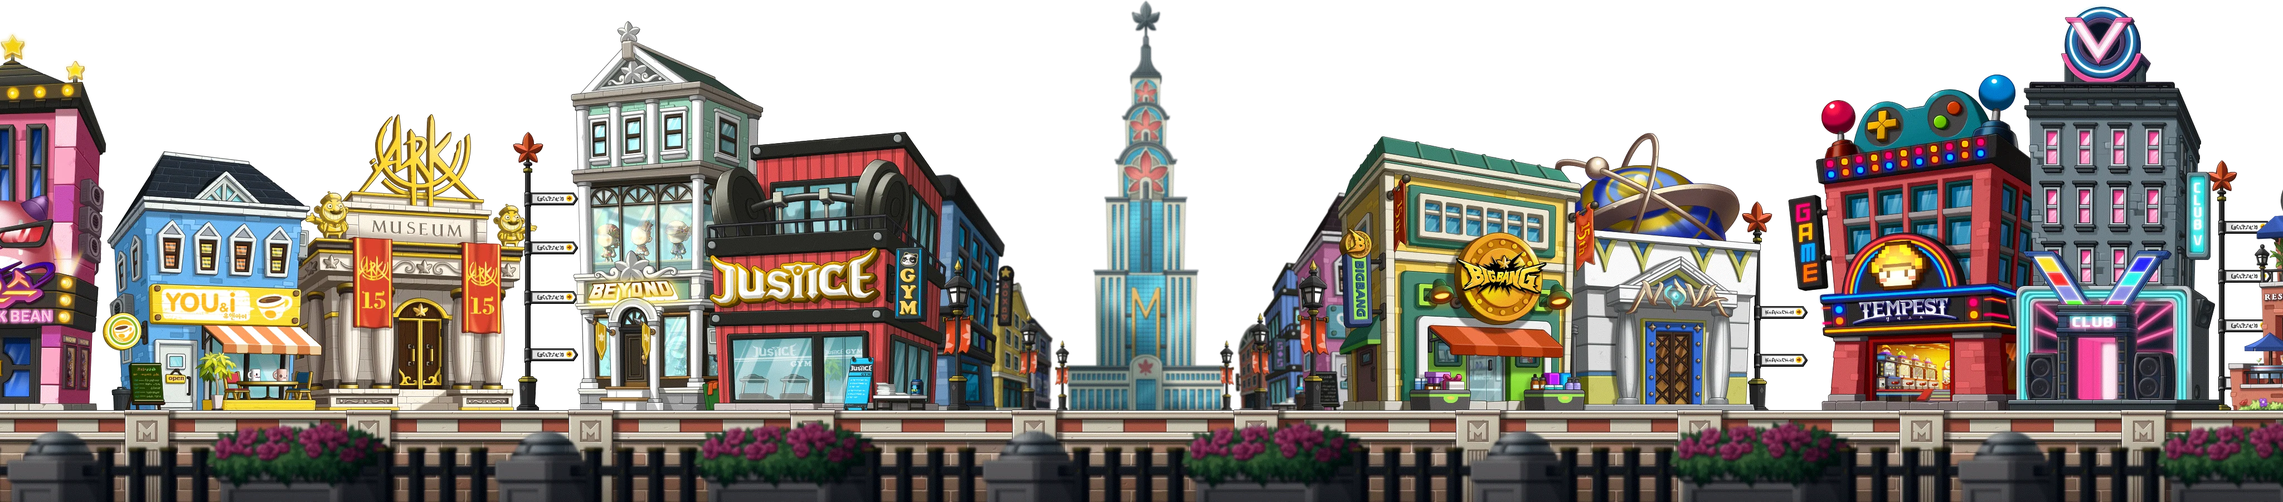
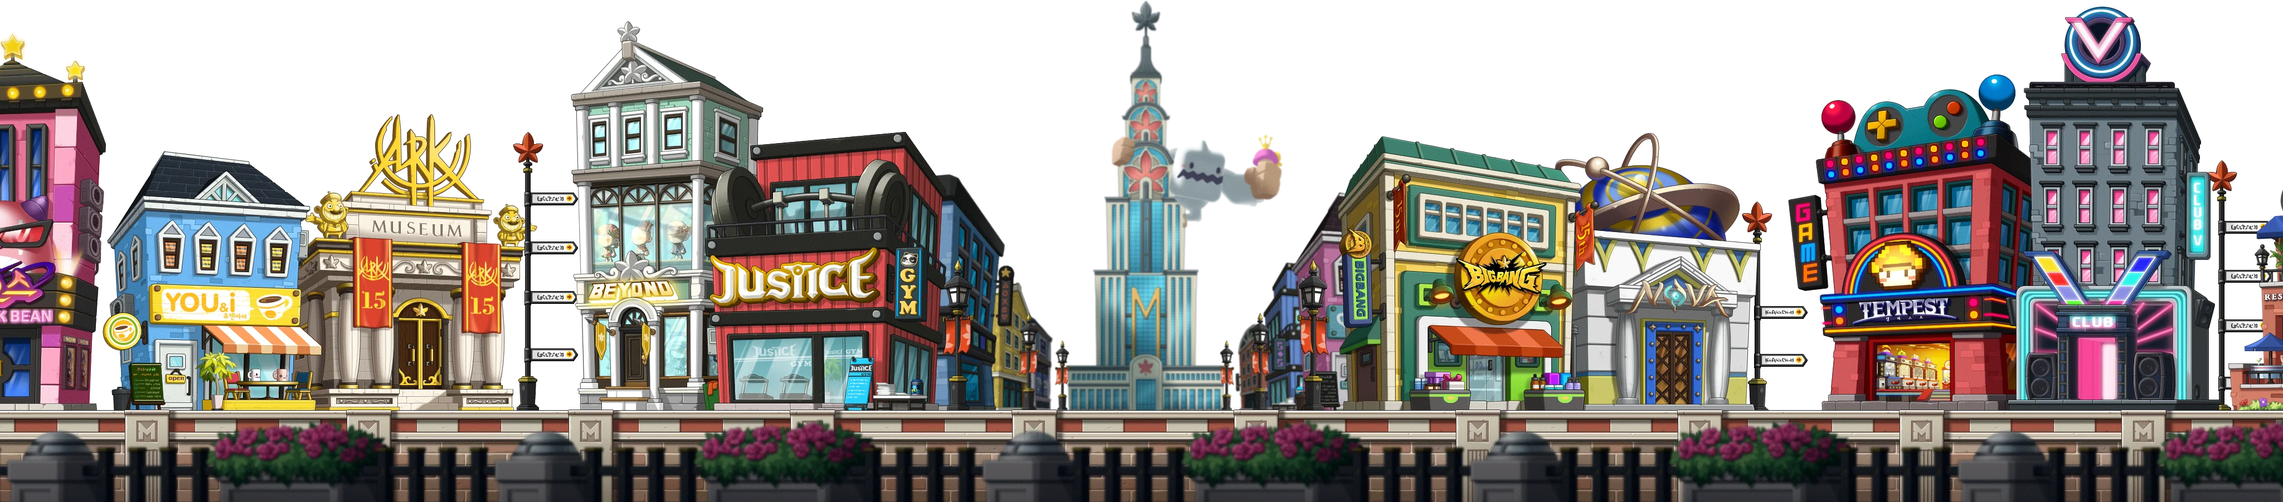
탭마다 주소, 배율 따라 커지는 무대, 밤 창문 불빛
- 탭 ↔ 주소(/, /search, /info, /preset, /plaza): 상태로 바로 바꾸고 주소만 따라 적는다(뒤로 가기 · 새로고침 · 링크)
- 앱 본문을 (shop)/layout 으로 옮겨 주소가 바뀌어도 다시 뜨지 않게
- 무대: 미리보기 배율을 올리면 방도 함께 커진다
- 거리: 밤에 창에 노란 불이 켜지고 둘레로 새어 나온다, 예티 풍선은 탑에 고정
- 장면의 밝아지며 다가가는 연출은 처음 뜰 때만

Changed region(s): [[0.4688, 0.2794, 0.5625, 0.4346]]

diff --git a/src/components/shop/scene/sceneGl.ts b/src/components/shop/scene/sceneGl.ts
@@ -1,19 +1,22 @@
 // 배경 장면을 그리는 WebGL 실행기. 그림은 게임 맵에서 뽑은 것(메이플 15번가)이고, 여기서는 층을 겹쳐 놓고
 // 시각에 따른 색과 작은 움직임만 입힌다. 화면 조작(INP)에 끼어들지 않는 것이 첫째 조건이다.
-//  · 앱 배경(sky) = 15번가 거리: 하늘(셰이더) → 구름 · 열기구 → 먼 빌딩 숲 → 버스와 차 → 거리의 건물 → 헬리콥터.
+//  · 앱 배경(sky) = 15번가 거리: 하늘(셰이더) → 구름 · 열기구 → 먼 빌딩 숲 → 버스와 차 → 거리의 건물(탑을 끌어안은 예티 풍선 포함) → 헬리콥터.
 //    그림 1칸 = 화면 1px 로 놓고(배율을 바꾸지 않는다) 아래 가운데를 화면 아래 가운데에 맞춘다.
-//  · 무대(room) = 15번가 패션 매장 안: 창밖 거리 → 매장. 가운데 깔개가 캐릭터 발밑에 온다. 그림은 늘 1칸 = 화면 1px —
-//    캐릭터 배율을 올려도 방은 키우지 않는다(키우면 선이 뭉개지고 방이 조금밖에 안 보인다).
+//  · 무대(room) = 15번가 패션 매장 안: 창밖 거리 → 매장. 가운데 깔개가 캐릭터 발밑에 오고, 그림 1칸 = 캐릭터 도트 1칸이다 —
+//    미리보기 배율을 올리면 방도 함께 커진다(정수 배율이라 칸을 그대로 키운다).
 //  · 움직임: 구름 · 열기구 · 차가 따로 흘러가고(정점 셰이더에서 계산), 화면 전체가 아주 천천히 좌우로 흔들린다(층마다 폭이 다르다).
-//  · 시각(skyTime): 하늘 · 해 · 달 · 별 · 핑크빈 별자리, 그림에 곱하는 빛. 밤에는 네온처럼 밝고 진한 색만 제 빛을 지킨다.
+//  · 시각(skyTime): 하늘 · 해 · 달 · 별 · 핑크빈 별자리, 그림에 곱하는 빛. 밤에는 거리가 가라앉고 창에 노란 불이 켜져 둘레로 새어 나온다
+//    (어느 창이 켜지는지는 그림에서 미리 뽑아 둔 지도 street-glow 가 정한다). 네온처럼 밝고 진한 색도 제 빛을 지킨다.
 //  · 그림은 화면이 한가할 때 받아 한 프레임에 한 장씩 올린다(디코딩은 createImageBitmap 으로 메인 스레드 밖에서).
 //  · 초당 30번 그린다. '동작 줄이기'면 바뀔 때와 20초마다만 그린다. 탭이 가려지면 rAF 가 멈춘다.
-//  · 캔버스와 컨텍스트는 종류마다 하나를 끝까지 재사용한다.
+//  · 캔버스와 컨텍스트는 종류마다 하나를 끝까지 재사용한다. 밝아지며 다가가는 연출은 처음 뜰 때 한 번뿐 —
+//    탭을 오가며 다시 붙을 때는 그 자리에서 바로 보인다(전환이 밀리지 않게).
 
 import roomFar from '@/assets/scene/room-far.webp'
 import roomMain from '@/assets/scene/room-main.webp'
 import streetAir from '@/assets/scene/street-air.webp'
 import streetFar from '@/assets/scene/street-far.webp'
+import streetGlow from '@/assets/scene/street-glow.webp'
 import streetMain from '@/assets/scene/street-main.webp'
 import { getStageFloor, onStageFloor } from '@/lib/stageFloor'
 import { ROOM, STREET } from './sceneData'
@@ -28,7 +31,7 @@ const SWAY = 12          // 화면이 좌우로 흔들리는 폭(그림 픽셀)
 const MASK = 0.2         // 앱 배경을 화면 내용과 가르는 어두운 막
 
 // 정점: 자리(2) · 텍스처 좌표(2) · [종류, 위상, 처음 x](3)
-// 종류 0 구름 · 1 열기구 · 2 헬리콥터와 풍선 행렬 · 3 버스와 차 · 4 먼 빌딩 · 5 거리 · 6 무대의 창밖 · 7 무대
+// 종류 0 구름 · 1 열기구 · 2 헬리콥터 · 3 버스와 차 · 4 먼 빌딩 · 5 거리 · 6 무대의 창밖 · 7 무대
 const QUAD_VS = `
 attribute vec2 aPos; attribute vec2 aUv; attribute vec3 aAni;
 uniform vec4 uView; uniform vec2 uRes; uniform float uTime; uniform float uSway;
@@ -51,7 +54,7 @@ void main(){
 }`
 const QUAD_FS = `
 precision mediump float;
-uniform sampler2D uTex; uniform vec3 uAmb; uniform vec3 uCloud; uniform vec3 uHaze; uniform float uLamp; uniform float uMask; uniform float uTw;
+uniform sampler2D uTex; uniform sampler2D uGlow; uniform vec3 uAmb; uniform vec3 uCloud; uniform vec3 uHaze; uniform float uLamp; uniform float uMask; uniform float uTw;
 uniform vec3 uFoot;   // 발 자리(그림 픽셀)와 그림자 반폭
 varying vec2 vUv; varying float vKind; varying vec2 vPos;
 void main(){
@@ -65,7 +68,18 @@ void main(){
     lit = c * uAmb;
     // 밤: 밝고 진한 색(네온 · 간판 · 불 켜진 창)은 제 빛을 지킨다
     lit = mix(lit, c * 1.05 + .03, smoothstep(.6, .9, mx) * smoothstep(.2, .5, mx - mn) * uLamp);
-    if (vKind > 3.5 && vKind < 4.5) lit = mix(lit, uHaze, .3);
+    if (vKind > 4.5 && vKind < 5.5) {
+      // 거리: 불 켜진 창(r)은 노랗게, 창에서 새어 나온 빛(g)은 둘레를 물들인다
+      vec2 gw = texture2D(uGlow, vUv).rg * uLamp;
+      lit = mix(lit, vec3(1., .86, .5) * (.55 + .5 * dot(c, vec3(.3, .59, .11))), gw.x);
+      lit += vec3(1., .74, .36) * gw.y * .42;
+    } else if (vKind > 3.5 && vKind < 4.5) {
+      // 먼 빌딩: 창 몇 개에만 불을 켠다
+      vec2 cell = vPos / vec2(7., 9.), f = fract(cell);
+      float h = fract(sin(dot(floor(cell), vec2(12.9898, 78.233))) * 43758.5453);
+      lit = mix(lit, vec3(1., .84, .5), step(.82, h) * step(.2, f.x) * step(f.x, .75) * step(.2, f.y) * step(f.y, .7) * uLamp * .85);
+      lit = mix(lit, uHaze, .3);
+    }
   } else {
     // 매장 안은 등불을 받아 바깥보다 덜 물든다. 아주 밝은 점(천장 · 바닥의 조명)은 느리게 반짝인다
     lit = c * mix(vec3(1.), uAmb, .3) + vec3(.03, .012, 0.) * uLamp;
@@ -132,8 +146,10 @@ interface Scene {
   host: HTMLElement | null
   ratio: number                  // 캔버스 픽셀 / CSS 픽셀
   foot: [number, number]         // 무대: 발 자리(캔버스 픽셀)
+  px: number                     // 무대: 그림 1칸의 캔버스 픽셀 수(= 캐릭터 도트 1칸)
+  nearest: boolean               // 무대: 지금 텍스처 필터
   shadow: number                 // 무대: 발밑 그림자 반폭(그림 픽셀)
-  arrive: number                 // 0 → 1: 뜨면서 살짝 다가간다
+  arrive: number                 // 0 → 1: 처음 뜨면서 살짝 다가간다
   shown: boolean
   dirty: boolean
   at: number
@@ -141,7 +157,7 @@ interface Scene {
   cleanup: (() => void) | null
 }
 
-const SOURCES: Record<SceneKind, string[]> = { sky: [streetAir.src, streetFar.src, streetMain.src], room: [roomFar.src, roomMain.src] }
+const SOURCES: Record<SceneKind, string[]> = { sky: [streetAir.src, streetFar.src, streetMain.src, streetGlow.src], room: [roomFar.src, roomMain.src] }
 const scenes: Partial<Record<SceneKind, Scene>> = {}
 let raf = 0
 let last = 0
@@ -187,7 +203,7 @@ function init(sc: Scene) {
   const gl = sc.gl
   if (!gl) return
   if (sc.kind === 'sky' && gl.getParameter(gl.MAX_TEXTURE_SIZE) < STREET.w) { sc.failed = true; return }
-  const qp = program(gl, QUAD_VS, QUAD_FS, ['uView', 'uRes', 'uTime', 'uTw', 'uSway', 'uTex', 'uAmb', 'uCloud', 'uHaze', 'uLamp', 'uMask', 'uFoot'])
+  const qp = program(gl, QUAD_VS, QUAD_FS, ['uView', 'uRes', 'uTime', 'uTw', 'uSway', 'uTex', 'uGlow', 'uAmb', 'uCloud', 'uHaze', 'uLamp', 'uMask', 'uFoot'])
   const sp = sc.kind === 'sky' ? program(gl, SKY_VS, SKY_FS, ['uRes', 'uPx', 'uSky', 'uSun', 'uMoon', 'uSunCol', 'uNight', 'uTime', 'uMask']) : null
   if (!qp || (sc.kind === 'sky' && !sp)) { sc.failed = true; return }
   const m = mesh(sc.kind)
@@ -203,6 +219,7 @@ function init(sc: Scene) {
   gl.blendFunc(gl.ONE, gl.ONE_MINUS_SRC_ALPHA)
   sc.tex = sc.bmps.map(() => null)
   sc.pending = sc.bmps.map((b, i) => (b ? i : -1)).filter((i) => i >= 0)
+  sc.nearest = false
   sc.dirty = true
 }
 
@@ -231,7 +248,7 @@ function load(sc: Scene) {
 function create(kind: SceneKind): Scene {
   const canvas = document.createElement('canvas')
   canvas.style.cssText = 'position:absolute;left:0;top:0;width:100%;height:100%;display:block;opacity:0;pointer-events:none'
-  const sc: Scene = { kind, canvas, gl: null, quad: null, sky: null, ranges: [], bmps: SOURCES[kind].map(() => null), tex: [], pending: [], host: null, ratio: 1, foot: [0, 0], shadow: 13, arrive: 0, shown: false, dirty: true, at: 0, failed: false, cleanup: null }
+  const sc: Scene = { kind, canvas, gl: null, quad: null, sky: null, ranges: [], bmps: SOURCES[kind].map(() => null), tex: [], pending: [], host: null, ratio: 1, foot: [0, 0], px: 1, nearest: false, shadow: 13, arrive: 0, shown: false, dirty: true, at: 0, failed: false, cleanup: null }
   // 소프트웨어 렌더러(GPU 없음)면 쓰지 않는다. 그때는 바탕색만 남는다. (?skygl=soft 는 GPU 없는 확인 환경에서 강제로 켜는 용도)
   const soft = /[?&]skygl=soft/.test(window.location.search)
   const gl = canvas.getContext('webgl', { alpha: false, antialias: false, depth: false, stencil: false, powerPreference: 'low-power', failIfMajorPerformanceCaveat: !soft })
@@ -244,7 +261,7 @@ function create(kind: SceneKind): Scene {
   return sc
 }
 
-// 캔버스 크기와(무대라면) 캐릭터 발 자리.
+// 캔버스 크기와(무대라면) 캐릭터 발 자리 · 배율.
 function layout(sc: Scene) {
   const host = sc.host
   if (!host) return
@@ -260,9 +277,10 @@ function layout(sc: Scene) {
     if (f && f.wrap.isConnected && host.parentElement?.contains(f.wrap)) {
       const wr = f.wrap.getBoundingClientRect(), hr = host.getBoundingClientRect()
       sc.foot = [Math.round((wr.left - hr.left + f.cx) * r), Math.round((wr.top - hr.top + f.footY) * r)]
-      sc.shadow = (f.shadow * f.scale) / dpr
+      sc.px = f.scale; sc.shadow = f.shadow
     } else {
       // 캐릭터가 아직 안 그려졌을 때: 그려질 자리와 거의 같은 값으로 미리 잡는다.
+      sc.px = Math.max(1, Math.round(dpr))
       sc.foot = [Math.round((hw / 2) * r), Math.round((hh / 2 + 38.4) * r)]
     }
   }
@@ -282,6 +300,15 @@ function draw(sc: Scene, now: number, st: SkyState, still: boolean) {
   const s = still ? 40 : now / 1000, W = c.width, H = c.height, room = sc.kind === 'room'
   sc.arrive = still ? 1 : Math.min(1, sc.arrive + 0.035)
   const ease = 1 - Math.pow(1 - sc.arrive, 3), zoom = 1 + 0.03 * (1 - ease)
+  if (room) {
+    // 다가가는 동안만 부드럽게, 멈추면 칸을 그대로(캐릭터 도트와 같은 결)
+    const nearest = sc.arrive >= 1 && Number.isInteger(sc.px)
+    if (nearest !== sc.nearest) {
+      sc.nearest = nearest
+      const f = nearest ? gl.NEAREST : gl.LINEAR
+      for (const t of sc.tex) { gl.bindTexture(gl.TEXTURE_2D, t); gl.texParameteri(gl.TEXTURE_2D, gl.TEXTURE_MIN_FILTER, f); gl.texParameteri(gl.TEXTURE_2D, gl.TEXTURE_MAG_FILTER, f) }
+    }
+  }
   gl.viewport(0, 0, W, H)
   gl.enableVertexAttribArray(0)
   const mask = room ? 0 : MASK
@@ -303,10 +330,12 @@ function draw(sc: Scene, now: number, st: SkyState, still: boolean) {
   gl.vertexAttribPointer(0, 2, gl.FLOAT, false, 28, 0); gl.vertexAttribPointer(1, 2, gl.FLOAT, false, 28, 8); gl.vertexAttribPointer(2, 3, gl.FLOAT, false, 28, 16)
   // 그림 픽셀 → 캔버스 픽셀: c = p * k + o
   let k: number, ox: number, oy: number
-  if (room) { k = sc.ratio * zoom; ox = sc.foot[0] - ROOM.foot[0] * k; oy = sc.foot[1] - ROOM.foot[1] * k }
+  if (room) { k = sc.px * zoom; ox = sc.foot[0] - ROOM.foot[0] * k; oy = sc.foot[1] - ROOM.foot[1] * k }
   else { k = sc.ratio * Math.max(1, W / sc.ratio / (STREET.w - 4 * SWAY)) * zoom; ox = W / 2 - (STREET.w / 2) * k; oy = H - STREET.h * k }
   gl.uniform4f(q.u.uView, k, k, ox, oy); gl.uniform2f(q.u.uRes, W, H); gl.uniform1f(q.u.uTime, s); gl.uniform1f(q.u.uTw, s % 600)
   gl.uniform1f(q.u.uSway, still ? 0 : Math.sin(s * 0.09) * SWAY)
+  // 불빛 지도는 1번 자리에(거리만 읽는다. 무대는 아무 그림이나 물려 둔다)
+  gl.uniform1i(q.u.uGlow, 1); gl.activeTexture(gl.TEXTURE1); gl.bindTexture(gl.TEXTURE_2D, sc.tex[room ? 0 : 3])
   gl.uniform1i(q.u.uTex, 0); gl.activeTexture(gl.TEXTURE0)
   // 밤의 거리는 하늘빛보다 더 가라앉힌다 — 네온이 살아난다
   const dim = 1 - 0.4 * st.night
@@ -346,9 +375,9 @@ export function mountScene(kind: SceneKind, host: HTMLElement): () => void {
   if (sc.failed) return () => {}
   sc.cleanup?.()
   sc.host = host
-  // 붙을 때마다: 어두운 바탕에서 밝아지며 살짝 다가간다
-  sc.canvas.style.transition = 'none'; sc.canvas.style.opacity = '0'
-  sc.shown = false; sc.arrive = 0
+  // 처음 뜰 때만 어두운 바탕에서 밝아지며 살짝 다가간다. 이미 떠 있던 장면은 다시 붙자마자 그린다(아래)
+  const again = sc.shown
+  if (!again) { sc.canvas.style.transition = 'none'; sc.canvas.style.opacity = '0'; sc.arrive = 0 }
   host.appendChild(sc.canvas)
   const relayout = () => layout(sc)
   const ro = new ResizeObserver(relayout)
@@ -362,6 +391,7 @@ export function mountScene(kind: SceneKind, host: HTMLElement): () => void {
   }
   layout(sc)
   reduce ??= window.matchMedia('(prefers-reduced-motion: reduce)')
+  if (again) draw(sc, performance.now(), skyState(skyHour()), reduce.matches) // 빈 프레임 없이
   if (!raf) raf = requestAnimationFrame(tick)
   const mine = sc.cleanup
   return () => { if (sc.cleanup === mine) mine() }

diff --git a/src/components/shop/ShopContext.tsx b/src/components/shop/ShopContext.tsx
@@ -9,6 +9,8 @@
  */
 
 import { createContext, useCallback, useContext, useDeferredValue, useEffect, useMemo, useRef, useState } from 'react'
+import { useSelectedLayoutSegment } from 'next/navigation'
+import { TAB_PATH, TAB_TITLE, tabOfPath } from '@/lib/tabRoute'
 import { nameMatcher } from '@/lib/nameSearch'
 import { CATS, MIX_PALETTE, type Preset, type Pv } from '@/lib/catalog'
 import { clampDye } from '@/lib/color'
@@ -25,7 +27,7 @@ import { safeBubbles } from '@/lib/safeText'
 import { CAT_TO_SLOT, DEFAULT_EQUIP, DEFAULT_TONE, DOT_MOVER_IDS, EQUIP_SLOTS, SLOT_TO_CAT, THUMB_VIEW, buildView, foldList, isDyeableSkin, slotFile } from '@/lib/shopData'
 import { warmItem } from '@/lib/core/warm'
 import { confirmTwice } from '@/lib/confirmTwice'
-import { RESTORE_ATTR, RESTORE_TABS, SEARCH_KEEP, type PresetOver, readUiHistory, readUiPref, readUiSession, useIsoLayoutEffect, writeUiHistory, writeUiPref, writeUiSession } from '@/lib/uiState'
+import { RESTORE_ATTR, SEARCH_KEEP, type PresetOver, readUiHistory, readUiPref, readUiSession, useIsoLayoutEffect, writeUiHistory, writeUiPref, writeUiSession } from '@/lib/uiState'
 
 type Dispatch<T> = React.Dispatch<React.SetStateAction<T>>
 export type ListMode = 'sprite' | 'model' | 'mymodel' // 보기 방식: 아이템 / 기본 캐릭터 / 내 캐릭터
@@ -182,7 +184,7 @@ export interface ShopCtx {
   search: string; setSearch: Dispatch<string>
   genderFilter: GenderFilter; setGenderFilter: Dispatch<GenderFilter> // 코디·AI 코디 검색 공용(v2)
   // primary/screen
-  primary: string; setPrimary: Dispatch<string>
+  primary: string; setPrimary: (tab: string) => void
   goHome: () => void // 로고 — 첫 진입 화면(코디 탭 · 전체 · 1페이지)으로
   // AI 코디 검색 — 결과는 하단 부위 바(activeCat)·성별로 필터(결과 집합은 perPage 와 무관)
   aiQ: string; setAiQ: Dispatch<string>
@@ -297,7 +299,25 @@ export function ShopProvider({ children }: { children: React.ReactNode }) {
   const [dataLoading, setDataLoading] = useState(true)
 
   // ── UI ──
-  const [primary, setPrimary] = useState('codi')
+  // 탭은 주소와 짝이다(lib/tabRoute). 처음 값은 들어온 주소에서 읽고, 바꿀 때는 상태를 먼저 바꾼 뒤 주소를 따라 적는다 —
+  // 주소 이동(서버 왕복)으로 화면을 바꾸지 않으므로 탭은 그 자리에서 바로 바뀐다. 뒤로 · 앞으로는 주소를 보고 상태를 맞춘다.
+  const segment = useSelectedLayoutSegment()
+  const [primary, setPrimaryState] = useState(() => tabOfPath('/' + (segment ?? '')))
+  const setPrimary = useCallback((tab: string) => {
+    setPrimaryState(tab)
+    const path = TAB_PATH[tab]
+    try { if (path && window.location.pathname !== path) window.history.pushState(null, '', path + window.location.search) } catch {} // 주소를 못 바꿔도 탭은 바뀐다
+  }, [])
+  useEffect(() => {
+    const onPop = () => setPrimaryState(tabOfPath(window.location.pathname))
+    window.addEventListener('popstate', onPop)
+    return () => window.removeEventListener('popstate', onPop)
+  }, [])
+  const titled = useRef(false)
+  useEffect(() => {
+    if (!titled.current) { titled.current = true; return } // 처음 제목은 서버가 낸 것(공유 링크는 프리셋 이름)을 둔다
+    document.title = TAB_TITLE[primary] ? `${TAB_TITLE[primary]} · 핑크빈 커마샵` : '핑크빈 커마샵'
+  }, [primary])
   const [searchQuery, setSearchQuery] = useState<string | null>(null) // AI 코디 검색어(null=미검색)
   const [aiQ, setAiQ] = useState('')
   const [activeCat, setActiveCat] = useState('all') // 기본 = 전체(모든 부위 한 리스트)
@@ -541,14 +561,13 @@ export function ShopProvider({ children }: { children: React.ReactNode }) {
   const [searchLoading, setSearchLoading] = useState(false)
 
   // ── 보던 자리 기억(새로고침까지만) ──
-  // 실수로 새로고침해도 탭·부위·검색어·페이지를 잃지 않는다. 탭을 닫고 다시 들어오면
+  // 실수로 새로고침해도 부위·검색어·페이지를 잃지 않는다(탭은 주소가 기억한다). 탭을 닫고 다시 들어오면
   // sessionStorage 가 비어 있으므로 저절로 첫 화면(코디 탭 · 전체 · 1페이지)에서 시작한다.
   //  · 되살리기는 **페인트 전**(layout effect)에 해서 기본 화면이 한 번 스치지 않게 한다.
   //  · 저장은 되살리기가 끝난 뒤에만 한다 — 먼저 돌면 기본값으로 덮어써 버린다.
   const [uiReady, setUiReady] = useState(false)
   useIsoLayoutEffect(() => {
     const u = readUiSession()
-    if (u.primary && RESTORE_TABS.has(u.primary)) setPrimary(u.primary)
     if (typeof u.activeCat === 'string') setActiveCat(u.activeCat)
     if (typeof u.search === 'string') setSearch(u.search)
     if (u.pageByCat && typeof u.pageByCat === 'object') setPageByCat(u.pageByCat)
@@ -569,10 +588,10 @@ export function ShopProvider({ children }: { children: React.ReactNode }) {
   useEffect(() => {
     if (!uiReady) return
     writeUiSession({
-      primary, activeCat, search, pageByCat, plazaFilter, plazaQ,
+      activeCat, search, pageByCat, plazaFilter, plazaQ,
       aiQ, searchQuery, searchResults: searchResults.slice(0, SEARCH_KEEP),
     })
-  }, [uiReady, primary, activeCat, search, pageByCat, plazaFilter, plazaQ, aiQ, searchQuery, searchResults])
+  }, [uiReady, activeCat, search, pageByCat, plazaFilter, plazaQ, aiQ, searchQuery, searchResults])
   useEffect(() => { if (uiReady) writeUiPref({ plazaSort }) }, [uiReady, plazaSort])
   const [rateResult, setRateResult] = useState<{ bubbles: string[]; nonce: number } | null>(null) // 코디 평가 말풍선
   // 말풍선은 **평가를 눌러 받은 그 한 번만** 뜬다(2026-09-22 사용자 제보 — 광장처럼 미리보기가 없는 탭에

diff --git a/src/components/shop/scene/sceneData.ts b/src/components/shop/scene/sceneData.ts
@@ -1,4 +1,4 @@
 // parser/scripts/scene-build.cjs 가 만든다. 손으로 고치지 않는다.
-// 좌표는 그림 픽셀(왼쪽 위 원점). sprites: [종류, 아틀라스 x, y, w, h, 장면 x, y] — 종류 0 구름 · 1 열기구 · 2 헬리콥터와 풍선 행렬 · 3 버스와 차
-export const STREET = {"w":4096,"h":1000,"far":{"y":118,"h":722},"main":{"y":98,"h":902},"atlas":[2200,743],"sprites":[[0,0,0,2155,459,-431,154],[0,0,0,2155,459,1724,154],[0,0,0,2155,459,3879,154],[0,788,461,387,166,1119,86],[0,788,461,387,166,2919,86],[0,0,461,472,190,169,11],[0,0,461,472,190,1669,11],[0,0,461,472,190,3169,11],[1,2069,461,71,92,1493,232],[1,2069,461,71,92,3922,91],[1,552,653,59,80,3033,158],[1,552,653,59,80,2555,254],[1,552,653,59,80,810,206],[1,1979,461,88,116,2452,156],[1,1979,461,88,116,240,122],[1,1979,461,88,116,4022,134],[1,1887,461,90,119,3100,189],[1,1887,461,90,119,1725,174],[1,1887,461,90,119,865,127],[2,348,653,100,89,1864,335],[2,474,461,312,174,1992,337],[2,450,653,100,89,2285,286],[3,1177,461,353,152,746,682],[3,1532,461,353,152,2961,686],[3,0,653,172,90,836,748],[3,0,653,172,90,3836,748],[3,0,653,172,90,2630,747],[3,174,653,172,90,1997,750],[3,174,653,172,90,54,748],[3,174,653,172,90,2554,748]]}
+// 좌표는 그림 픽셀(왼쪽 위 원점). sprites: [종류, 아틀라스 x, y, w, h, 장면 x, y] — 종류 0 구름 · 1 열기구 · 2 헬리콥터 · 3 버스와 차
+export const STREET = {"w":4096,"h":1000,"far":{"y":118,"h":722},"main":{"y":98,"h":902},"atlas":[2200,742],"sprites":[[0,0,0,2155,459,-431,154],[0,0,0,2155,459,1724,154],[0,0,0,2155,459,3879,154],[0,474,461,387,166,1119,86],[0,474,461,387,166,2919,86],[0,0,461,472,190,169,11],[0,0,461,472,190,1669,11],[0,0,461,472,190,3169,11],[1,1755,461,71,92,1493,232],[1,1755,461,71,92,3922,91],[1,204,653,59,80,3033,158],[1,204,653,59,80,2555,254],[1,204,653,59,80,810,206],[1,1665,461,88,116,2452,156],[1,1665,461,88,116,240,122],[1,1665,461,88,116,4022,134],[1,1573,461,90,119,3100,189],[1,1573,461,90,119,1725,174],[1,1573,461,90,119,865,127],[2,0,653,100,89,1864,335],[2,102,653,100,89,2285,286],[3,863,461,353,152,746,682],[3,1218,461,353,152,2961,686],[3,1828,461,172,90,836,748],[3,1828,461,172,90,3836,748],[3,1828,461,172,90,2630,747],[3,2002,461,172,90,1997,750],[3,2002,461,172,90,54,748],[3,2002,461,172,90,2554,748]]}
 export const ROOM = {"w":1366,"h":768,"foot":[683,592]}

diff --git a/src/lib/uiState.ts b/src/lib/uiState.ts
@@ -2,7 +2,8 @@
 
 // 화면 상태 기억 — 두 갈래로 나눈다(2026-09-21 사용자 지시).
 //  · 영구(localStorage)   : 취향에 가까운 값. 지금은 광장 정렬 하나.
-//  · 새로고침까지(sessionStorage): 길찾기 값(탭·부위·검색어·페이지·광장 필터).
+//  · 새로고침까지(sessionStorage): 길찾기 값(부위·검색어·페이지·광장 필터). 탭은 주소가 기억한다(lib/tabRoute).
+//    서버가 그 주소의 탭을 처음부터 그려 주므로 탭 때문에 뼈대를 띄울 일이 없다.
 //    실수로 새로고침해도 보던 자리를 잃지 않되, **탭을 닫고 다시 들어오면 깨끗한 첫 화면**
 //    (코디 탭 · 전체 · 1페이지)에서 시작한다 — sessionStorage 가 그 경계를 그대로 그어 준다.
 //
@@ -16,7 +17,6 @@ import type { ListItem } from '@/lib/core/data'
 export const useIsoLayoutEffect = typeof window !== 'undefined' ? useLayoutEffect : useEffect
 
 export type UiSession = {
-  primary?: string
   activeCat?: string
   search?: string
   pageByCat?: Record<string, number>
@@ -38,7 +38,6 @@ const SESSION_KEY = 'pb_ui_session_v1'
 const PREF_KEY = 'pb_ui_pref_v1'
 const HIST_KEY = 'pb_ui_hist_v1'
 
-export const RESTORE_TABS = new Set(['codi', 'search', 'info', 'preset', 'share'])
 // 검색 결과 저장 상한(검색 자체가 topK 100 이다). sessionStorage 를 과하게 쓰지 않도록 둔다.
 export const SEARCH_KEEP = 100
 // 새로고침 복원 중 표시. layout.tsx 의 인라인 스크립트가 **새로고침일 때만** 켜고,
@@ -62,7 +61,6 @@ function write(store: 'sessionStorage' | 'localStorage', key: string, v: unknown
 // ⚠ 여기 적힌 기본값은 ShopContext 의 useState 초기값과 같아야 한다.
 function differs(v: UiSession): boolean {
   return Boolean(
-    (v.primary && v.primary !== 'codi') ||
     (v.activeCat && v.activeCat !== 'all') ||
     v.search || v.aiQ || v.searchQuery ||
     (v.searchResults && v.searchResults.length) ||

diff --git a/src/app/(shop)/share/page.tsx b/src/app/(shop)/share/page.tsx
@@ -1,12 +1,11 @@
 // 공유 링크(/?c=<코드>&n=<이름>) 전용 페이지 — middleware.ts 가 c 가 있는 / 요청만 여기로 rewrite 한다(주소창은 그대로).
-// 본문은 홈과 같고, 링크 미리보기(카카오톡·디스코드 등)용 메타만 프리셋 기준으로 바꾼다:
+// 본문은 홈과 같고((shop)/layout.tsx 가 그린다), 링크 미리보기(카카오톡·디스코드 등)용 메타만 프리셋 기준으로 바꾼다:
 //   og:title = 프리셋 이름 · og:description = 받아가기 안내 · og:image = 복사 시 올린 캐릭터 카드(share/<id>.jpg)
 // 홈(/)은 정적 페이지로 남기기 위해 동적 메타를 여기로 분리했다.
 import type { Metadata } from 'next'
 import { headers } from 'next/headers'
 import { permanentRedirect } from 'next/navigation'
 import { inflateRawSync } from 'zlib'
-import ShopHome from '@/components/ShopHome'
 import { r2, r2Configured } from '@/lib/server/r2'
 
 const CDN = process.env.NEXT_PUBLIC_DATA_BASE?.startsWith('http') ? process.env.NEXT_PUBLIC_DATA_BASE : 'https://cdn.pinkbean-customize.com'
@@ -79,5 +78,5 @@ export async function generateMetadata({ searchParams }: Props): Promise<Metadat
 // (rewrite 로 들어온 요청은 `c` 를 그대로 들고 오므로 카톡 카드 경로는 영향이 없다.)
 export default function SharePage({ searchParams }: Props) {
   if (!one(searchParams.c)) permanentRedirect('/') // 308 — 공개 주소가 아니다
-  return <ShopHome />
+  return null
 }

diff --git a/src/lib/tabRoute.ts b/src/lib/tabRoute.ts
@@ -1,0 +1,11 @@
+// 탭 ↔ 주소. 탭을 바꾸면 주소도 바뀌고(뒤로 가기 · 새로고침 · 링크 공유가 그 탭으로 통한다),
+// 화면은 주소가 아니라 상태로 갈아 끼운다 — 서버 왕복 없이 바로 바뀐다(ShopContext 의 setPrimary).
+// 주소마다 app/(shop)/<이름>/page.tsx 가 있어야 새로고침 · 직접 진입이 된다. 코디 광장은 /share(공유 링크 전용)와 겹치지 않게 /plaza.
+export const TAB_PATH: Record<string, string> = { codi: '/', search: '/search', info: '/info', preset: '/preset', share: '/plaza' }
+export const TAB_TITLE: Record<string, string> = { search: 'AI 코디 검색', info: '코디 정보 · 염색', preset: '프리셋', share: '코디 광장' }
+
+export function tabOfPath(path: string): string {
+  const p = path.replace(/\/+$/, '') || '/'
+  for (const [tab, v] of Object.entries(TAB_PATH)) if (v === p) return tab
+  return 'codi'
+}

diff --git a/src/app/(shop)/layout.tsx b/src/app/(shop)/layout.tsx
@@ -1,0 +1,12 @@
+// 앱 본문(ShopHome)은 이 레이아웃에 한 번만 놓는다. 탭마다 주소가 있지만(/, /search, /info, /preset, /plaza, 공유 링크용 /share)
+// 그 페이지들은 메타만 내고 본문은 비어 있다 — 어느 주소로 들어오든, 주소 사이를 오가든 앱은 다시 뜨지 않는다.
+import ShopHome from '@/components/ShopHome'
+
+export default function ShopLayout({ children }: { children: React.ReactNode }) {
+  return (
+    <>
+      <ShopHome />
+      {children}
+    </>
+  )
+}

diff --git a/src/app/(shop)/info/page.tsx b/src/app/(shop)/info/page.tsx
@@ -1,0 +1,8 @@
+// '코디 정보 · 염색' 탭의 주소. 본문은 (shop)/layout.tsx 가 그리고, 어느 탭을 열지는 주소에서 읽는다(lib/tabRoute).
+import type { Metadata } from 'next'
+
+export const metadata: Metadata = { title: '코디 정보 · 염색' }
+
+export default function Page() {
+  return null
+}

diff --git a/src/app/(shop)/search/page.tsx b/src/app/(shop)/search/page.tsx
@@ -1,0 +1,8 @@
+// 'AI 코디 검색' 탭의 주소. 본문은 (shop)/layout.tsx 가 그리고, 어느 탭을 열지는 주소에서 읽는다(lib/tabRoute).
+import type { Metadata } from 'next'
+
+export const metadata: Metadata = { title: 'AI 코디 검색' }
+
+export default function Page() {
+  return null
+}

diff --git a/src/app/(shop)/plaza/page.tsx b/src/app/(shop)/plaza/page.tsx
@@ -1,0 +1,8 @@
+// '코디 광장' 탭의 주소. 본문은 (shop)/layout.tsx 가 그리고, 어느 탭을 열지는 주소에서 읽는다(lib/tabRoute).
+import type { Metadata } from 'next'
+
+export const metadata: Metadata = { title: '코디 광장' }
+
+export default function Page() {
+  return null
+}

diff --git a/src/app/(shop)/preset/page.tsx b/src/app/(shop)/preset/page.tsx
@@ -1,0 +1,8 @@
+// '프리셋' 탭의 주소. 본문은 (shop)/layout.tsx 가 그리고, 어느 탭을 열지는 주소에서 읽는다(lib/tabRoute).
+import type { Metadata } from 'next'
+
+export const metadata: Metadata = { title: '프리셋' }
+
+export default function Page() {
+  return null
+}

diff --git a/src/app/(shop)/page.tsx b/src/app/(shop)/page.tsx
@@ -1,0 +1,4 @@
+// 홈(코디 탭). 본문은 (shop)/layout.tsx 가 그린다.
+export default function Page() {
+  return null
+}
